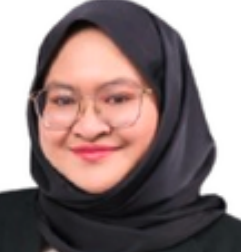
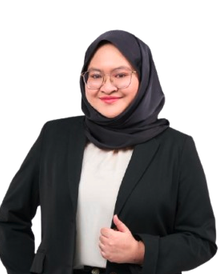
Rebuild Team section, enforce font CI, and fix accessibility/motion issues
- Team: replace hexagon-framed photos with editorial cards built from raw
  extracted_images sources (hexagon geometry caused repeated crop/border
  bugs); also fixes a real bug where Siti Sharina's source image was
  missing its alpha mask, leaving a black background artifact
- Font CI: Playfair Display was leaking into body/content text (team
  names, numeral badges); restricted it back to the logo lockup only,
  per the brand's own design system
- Accessibility audit fixes: body text contrast raised across Team,
  Achievements, Services, and Clients (ink/55 and ink/50 both failed
  WCAG AA ~3.4-4:1, now ink/70 at ~6.6:1); footer link/copyright contrast
  fixed (white/40 and white/30 failed at ~3.8:1 and ~2.6:1); mobile menu
  toggle enlarged to the 44px touch-target minimum; marquee's duplicated
  logo track marked aria-hidden so client names aren't announced twice
- Motion: added prefers-reduced-motion handling to scroll reveals (opacity
  crossfade, no position movement) and the client marquee (pauses and
  drops the duplicated loop instead of scrolling); reveals no longer gate
  content at opacity:0 by default, so a failed observer/JS no longer
  ships a blank section; added a brand-correct gold-deep focus-visible
  ring (plain gold fails 3:1 contrast on white); trimmed the services
  accordion transition from 500ms to 350ms
- Fixed a hydration mismatch the reduced-motion work introduced: the
  media-query value differs between server and a client that already has
[…]

diff --git a/site/src/components/Team.tsx b/site/src/components/Team.tsx
@@ -11,25 +11,33 @@ export function Team() {
           <SectionHeading eyebrow="Our" emphasis="Team" center />
         </Reveal>
 
-        <div className="grid grid-cols-2 gap-x-6 gap-y-14 sm:grid-cols-3 lg:grid-cols-5 lg:gap-x-8">
+        <div className="grid grid-cols-2 gap-x-5 gap-y-12 sm:grid-cols-3 lg:grid-cols-5 lg:gap-x-6">
           {team.map((member, i) => (
             <Reveal key={member.slug} delay={i * 0.08} className="group">
-              <div className="relative mx-auto h-40 w-36 sm:h-44 sm:w-40">
-                <div className="absolute inset-0 translate-x-1.5 translate-y-1.5 bg-gold clip-hex transition-transform duration-300 group-hover:translate-x-2.5 group-hover:translate-y-2.5" />
-                <div className="relative h-full w-full overflow-hidden clip-hex bg-ink">
+              <div className="relative overflow-hidden border border-border bg-paper">
+                <span className="absolute left-0 top-0 z-10 h-8 w-8 bg-ink" />
+                <span className="absolute left-2 top-1 z-10 font-display text-sm font-bold text-gold">
+                  0{i + 1}
+                </span>
+                <div className="relative aspect-[4/5] w-full">
                   <Image
                     src={member.image}
                     alt={member.name}
                     fill
-                    sizes="200px"
-                    className="object-cover object-top transition-transform duration-500 group-hover:scale-110"
+                    sizes="(max-width: 640px) 45vw, (max-width: 1024px) 30vw, 20vw"
+                    className="object-cover object-top grayscale transition-all duration-500 group-hover:scale-105 group-hover:grayscale-0"
                   />
                 </div>
+                <div className="absolute inset-x-0 bottom-0 h-1 origin-left scale-x-0 bg-gold transition-transform duration-500 group-hover:scale-x-100" />
               </div>
-              <div className="mt-6 text-center">
-                <h3 className="font-display text-sm font-bold text-ink sm:text-base">{member.name}</h3>
-                <p className="mt-1 text-xs font-medium italic text-gold-deep sm:text-sm">{member.title}</p>
-                <p className="mx-auto mt-2 max-w-[200px] text-[11px] leading-relaxed text-ink/55 sm:text-xs">
+              <div className="mt-5">
+                <h3 className="font-display text-base font-bold leading-snug text-ink sm:text-lg">
+                  {member.name}
+                </h3>
+                <p className="mt-1 text-xs font-medium italic text-gold-deep sm:text-sm">
+                  {member.title}
+                </p>
+                <p className="mt-2.5 text-[11px] leading-relaxed text-ink/70 sm:text-xs">
                   {member.bio}
                 </p>
               </div>

diff --git a/site/src/components/Clients.tsx b/site/src/components/Clients.tsx
@@ -5,6 +5,21 @@ import { motion } from "framer-motion";
 import { clients, type ClientLogo } from "@/lib/data";
 import { SectionHeading } from "@/components/SectionHeading";
 import { Reveal } from "@/components/Reveal";
+import { useSafeReducedMotion } from "@/lib/useSafeReducedMotion";
+
+function LogoTile({ logo, hidden }: { logo: ClientLogo; hidden?: boolean }) {
+  return (
+    <div className="flex h-10 shrink-0 items-center sm:h-12" aria-hidden={hidden || undefined}>
+      <Image
+        src={`/images/logos/clients/${logo.slug}.png`}
+        alt={hidden ? "" : logo.name}
+        width={logo.width}
+        height={logo.height}
+        className="h-full w-auto object-contain opacity-60 grayscale transition-[opacity,filter] duration-300 hover:opacity-100 hover:grayscale-0"
+      />
+    </div>
+  );
+}
 
 function MarqueeRow({
   logos,
@@ -15,6 +30,21 @@ function MarqueeRow({
   direction: "left" | "right";
   duration: number;
 }) {
+  const reduceMotion = useSafeReducedMotion();
+
+  if (reduceMotion) {
+    // Static: no infinite scroll, and no duplicated loop content to announce/read twice.
+    return (
+      <div className="relative overflow-hidden py-6">
+        <div className="flex flex-wrap items-center justify-center gap-x-12 gap-y-6 sm:gap-x-16">
+          {logos.map((logo) => (
+            <LogoTile key={logo.slug} logo={logo} />
+          ))}
+        </div>
+      </div>
+    );
+  }
+
   const loop = [...logos, ...logos];
 
   return (
@@ -28,15 +58,7 @@ function MarqueeRow({
         transition={{ duration, repeat: Infinity, ease: "linear" }}
       >
         {loop.map((logo, i) => (
-          <div key={`${logo.slug}-${i}`} className="flex h-10 shrink-0 items-center sm:h-12">
-            <Image
-              src={`/images/logos/clients/${logo.slug}.png`}
-              alt={logo.name}
-              width={logo.width}
-              height={logo.height}
-              className="h-full w-auto object-contain opacity-60 grayscale transition-all duration-300 hover:opacity-100 hover:grayscale-0"
-            />
-          </div>
+          <LogoTile key={`${logo.slug}-${i}`} logo={logo} hidden={i >= logos.length} />
         ))}
       </motion.div>
     </div>
@@ -53,7 +75,7 @@ export function Clients() {
       <div className="mx-auto max-w-3xl px-6 text-center sm:px-10">
         <Reveal>
           <SectionHeading eyebrow="Our" emphasis="Valued Clients" center />
-          <p className="mx-auto -mt-3 mb-4 max-w-lg text-sm text-ink/55">
+          <p className="mx-auto -mt-3 mb-4 max-w-lg text-sm text-ink/70">
             Trusted by industry leaders across corporate, eSports, publishing, and technology.
           </p>
         </Reveal>

diff --git a/site/src/components/Reveal.tsx b/site/src/components/Reveal.tsx
@@ -2,6 +2,7 @@
 
 import { motion } from "framer-motion";
 import type { ReactNode } from "react";
+import { useSafeReducedMotion } from "@/lib/useSafeReducedMotion";
 
 type RevealProps = {
   children: ReactNode;
@@ -11,18 +12,24 @@ type RevealProps = {
   once?: boolean;
 };
 
-export function Reveal({ children, delay = 0, y = 28, className, once = true }: RevealProps) {
+export function Reveal({ children, delay = 0, y = 16, className, once = true }: RevealProps) {
+  const reduceMotion = useSafeReducedMotion();
+
   return (
     <motion.div
       className={className}
       initial="hidden"
       whileInView="show"
-      viewport={{ once, amount: 0.25 }}
+      viewport={{ once, amount: 0.25, margin: "0px 0px -80px 0px" }}
       variants={{
-        hidden: { opacity: 0, y },
+        hidden: reduceMotion ? { opacity: 0.55 } : { opacity: 0.55, y },
         show: { opacity: 1, y: 0 },
       }}
-      transition={{ duration: 0.7, delay, ease: [0.16, 1, 0.3, 1] }}
+      transition={
+        reduceMotion
+          ? { duration: 0.18, ease: "easeOut" }
+          : { duration: 0.6, delay, ease: [0.16, 1, 0.3, 1] }
+      }
     >
       {children}
     </motion.div>
@@ -43,7 +50,7 @@ export function RevealGroup({
       className={className}
       initial="hidden"
       whileInView="show"
-      viewport={{ once: true, amount: 0.2 }}
+      viewport={{ once: true, amount: 0.2, margin: "0px 0px -80px 0px" }}
       transition={{ staggerChildren: stagger }}
     >
       {children}
@@ -51,13 +58,21 @@ export function RevealGroup({
   );
 }
 
-export function RevealItem({ children, className, y = 20 }: { children: ReactNode; className?: string; y?: number }) {
+export function RevealItem({ children, className, y = 12 }: { children: ReactNode; className?: string; y?: number }) {
+  const reduceMotion = useSafeReducedMotion();
+
   return (
     <motion.div
       className={className}
       variants={{
-        hidden: { opacity: 0, y },
-        show: { opacity: 1, y: 0, transition: { duration: 0.6, ease: [0.16, 1, 0.3, 1] } },
+        hidden: reduceMotion ? { opacity: 0.55 } : { opacity: 0.55, y },
+        show: {
+          opacity: 1,
+          y: 0,
+          transition: reduceMotion
+            ? { duration: 0.18, ease: "easeOut" }
+            : { duration: 0.5, ease: [0.16, 1, 0.3, 1] },
+        },
       }}
     >
       {children}

diff --git a/site/src/components/Services.tsx b/site/src/components/Services.tsx
@@ -27,7 +27,7 @@ export function Services() {
       <div className="mx-auto max-w-5xl px-6 sm:px-10">
         <Reveal>
           <SectionHeading eyebrow="Our" emphasis="Services" center />
-          <p className="mx-auto -mt-3 mb-4 max-w-lg text-center text-sm text-ink/55">
+          <p className="mx-auto -mt-3 mb-4 max-w-lg text-center text-sm text-ink/70">
             Seven practice areas. Tap any to see key services and detail.
           </p>
         </Reveal>
@@ -71,7 +71,7 @@ function ServiceRow({
       >
         <span
           className={clsx(
-            "font-serif text-lg font-bold shrink-0 w-9 text-center sm:text-xl",
+            "font-display text-lg font-bold shrink-0 w-9 text-center sm:text-xl",
             isOpen ? "text-gold" : "text-ink/25"
           )}
         >
@@ -81,7 +81,7 @@ function ServiceRow({
           <span className="block font-display text-base font-bold text-ink sm:text-lg">
             {service.name}
           </span>
-          <span className="mt-0.5 block text-[13px] text-ink/50 sm:text-sm">{service.summary}</span>
+          <span className="mt-0.5 block text-[13px] text-ink/70 sm:text-sm">{service.summary}</span>
         </span>
         <span className={clsx("hidden sm:block", isOpen ? "text-gold" : "text-ink/30")}>
           <ChevronIcon open={isOpen} />
@@ -89,7 +89,7 @@ function ServiceRow({
       </button>
 
       <div
-        className="grid transition-[grid-template-rows] duration-500 ease-[cubic-bezier(0.16,1,0.3,1)]"
+        className="grid transition-[grid-template-rows] duration-[350ms] ease-[cubic-bezier(0.16,1,0.3,1)]"
         style={{ gridTemplateRows: isOpen ? "1fr" : "0fr" }}
       >
         <div className="overflow-hidden">

diff --git a/site/src/lib/useSafeReducedMotion.ts b/site/src/lib/useSafeReducedMotion.ts
@@ -1,0 +1,32 @@
+"use client";
+
+import { useSyncExternalStore } from "react";
+
+const QUERY = "(prefers-reduced-motion: reduce)";
+
+function subscribe(callback: () => void) {
+  const mql = window.matchMedia(QUERY);
+  mql.addEventListener("change", callback);
+  return () => mql.removeEventListener("change", callback);
+}
+
+function getSnapshot() {
+  return window.matchMedia(QUERY).matches;
+}
+
+function getServerSnapshot() {
+  return false;
+}
+
+/**
+ * Whether the user prefers reduced motion, safe for SSR. The real value can
+ * only be known on the client, so the server snapshot (and the client's
+ * first hydration pass) both resolve to `false` — matching each other
+ * exactly — then useSyncExternalStore syncs to the real value on the next
+ * client render. Using external-store subscription (not useEffect +
+ * setState) avoids an extra render pass and matches the platform-provided
+ * pattern for this exact class of problem.
+ */
+export function useSafeReducedMotion() {
+  return useSyncExternalStore(subscribe, getSnapshot, getServerSnapshot);
+}

diff --git a/site/src/components/Contact.tsx b/site/src/components/Contact.tsx
@@ -110,13 +110,13 @@ export function Contact() {
 
         <nav className="mt-20 flex flex-wrap gap-x-8 gap-y-3 border-t border-white/10 pt-10">
           {nav.map((item) => (
-            <a key={item.href} href={item.href} className="text-xs uppercase tracking-widest text-white/40 hover:text-gold">
+            <a key={item.href} href={item.href} className="text-xs uppercase tracking-widest text-white/60 hover:text-gold">
               {item.label}
             </a>
           ))}
         </nav>
 
-        <div className="mt-10 flex flex-col gap-2 text-[11px] text-white/30 sm:flex-row sm:items-center sm:justify-between">
+        <div className="mt-10 flex flex-col gap-2 text-[11px] text-white/50 sm:flex-row sm:items-center sm:justify-between">
           <span>© {new Date().getFullYear()} {site.legalName}. All rights reserved.</span>
           <span>{site.tagline}</span>
         </div>

diff --git a/site/src/components/ManagingPartner.tsx b/site/src/components/ManagingPartner.tsx
@@ -23,7 +23,7 @@ export function ManagingPartner() {
               </div>
             </div>
             <div className="mx-auto mt-8 max-w-sm text-center lg:text-left">
-              <h3 className="font-serif text-2xl font-bold text-white">{managingPartner.name}</h3>
+              <h3 className="font-display text-2xl font-bold text-white">{managingPartner.name}</h3>
               <p className="mt-1 text-sm font-semibold uppercase tracking-widest text-gold">
                 {managingPartner.title}
               </p>

diff --git a/site/src/components/Achievements.tsx b/site/src/components/Achievements.tsx
@@ -25,7 +25,7 @@ export function Achievements() {
                 <p className="text-sm font-semibold text-ink">{item.org}</p>
                 <ul className="mt-2 space-y-1">
                   {item.roles.map((role) => (
-                    <li key={role} className="flex gap-2 text-xs text-ink/55">
+                    <li key={role} className="flex gap-2 text-xs text-ink/70">
                       <span className="text-gold-deep">—</span>
                       {role}
                     </li>

diff --git a/site/src/app/globals.css b/site/src/app/globals.css
@@ -58,6 +58,14 @@ body {
   color: var(--color-ink);
 }
 
+/* Keyboard focus ring. gold-deep (not gold) clears 3:1 non-text contrast
+   against both white and black sections; plain gold fails on white. */
+:focus-visible {
+  outline: 2px solid var(--color-gold-deep);
+  outline-offset: 2px;
+  transition: outline-offset 100ms ease-out;
+}
+
 /* Diagonal panel utility used across sections */
 .clip-diagonal-tr {
   clip-path: polygon(28% 0, 100% 0, 100% 100%, 0 100%);

diff --git a/site/src/components/Nav.tsx b/site/src/components/Nav.tsx
@@ -68,7 +68,7 @@ export function Nav() {
         <button
           type="button"
           aria-label="Toggle menu"
-          className="flex h-10 w-10 flex-col items-center justify-center gap-1.5 lg:hidden"
+          className="flex h-11 w-11 flex-col items-center justify-center gap-1.5 lg:hidden"
           onClick={() => setOpen((v) => !v)}
         >
           <motion.span
